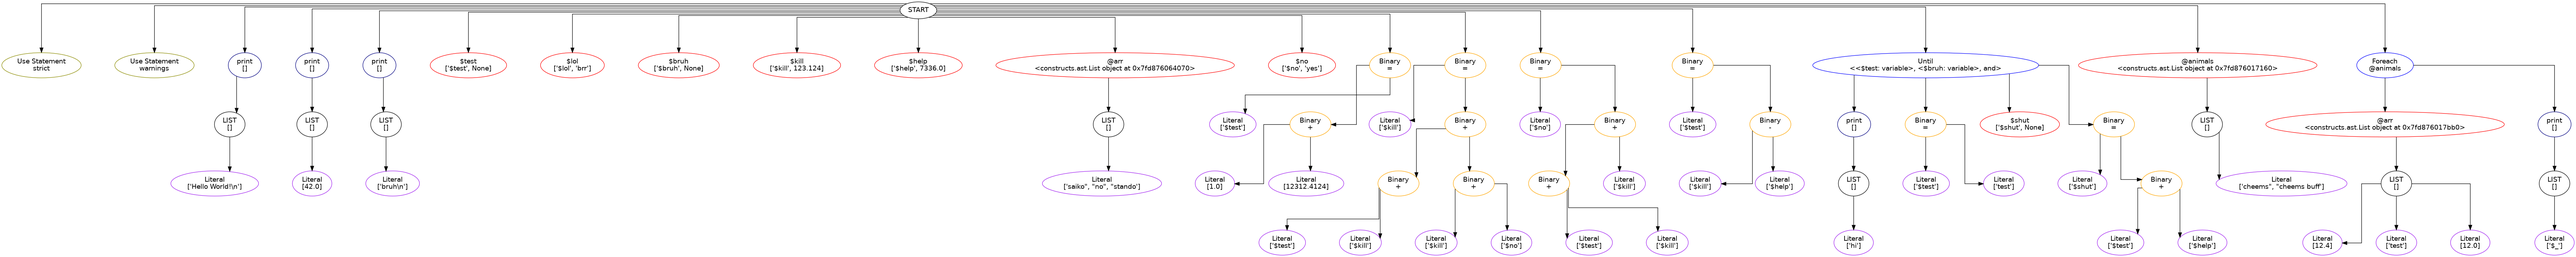
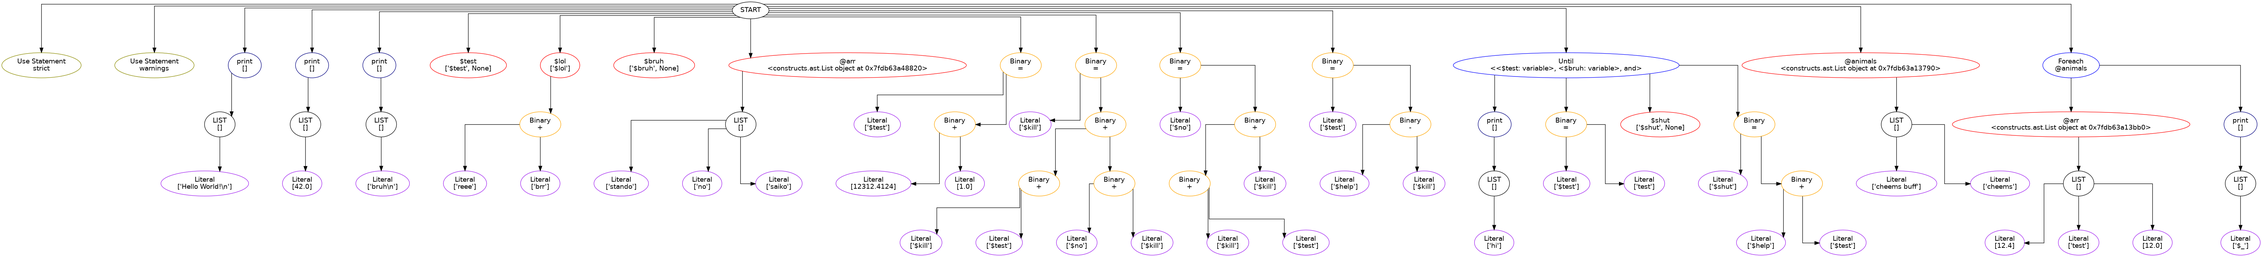
constant folding, string recognition, expr in var_decl

diff --git a/parser_yacc.py b/parser_yacc.py
@@ -44,8 +44,7 @@ def p_use(p):
 def p_var_decl(p: yacc.YaccProduction):
     """
     var_decl : MY VARNAME SEMI
-             | MY VARNAME EQ STRING SEMI
-             | MY VARNAME EQ NUMBER SEMI
+             | MY VARNAME EQ expr SEMI
     """
     if (len(p) == 4):
         symtab.add_if_not_exists(p[2][0])
@@ -53,8 +52,8 @@ def p_var_decl(p: yacc.YaccProduction):
         cprint("variable declaration", p.lineno(1), p.lineno(3))
     elif (len(p) == 6):
         symtab.add_if_not_exists(p[2][0])
-        symtab.get_symbol(p[2][0]).value = p[4][0]
-        p[0] = Decleration(p[2][0], p[4][0])
+        symtab.get_symbol(p[2][0]).value = p[4]
+        p[0] = Decleration(p[2][0], p[4])
         cprint("variable declaration", p.lineno(1), p.lineno(5))
     symtab.get_symbol(p[2][0]).lineno = p.lineno(2)
 
@@ -83,10 +82,11 @@ def p_identifier_types(p):
                     | NUMBER
                     | STRING
     """
-    symbol = symtab.get_symbol(p[1][0])
+    print("identifier_types")
     if (len(p) == 2):
         cprint("Identifier", p.lineno(1), p.lineno(1))
         if (p[1][1] == "VARNAME"):
+            symbol = symtab.get_symbol(p[1][0])
             if (symbol is None):
                 print("ERROR AT", p.lineno(1))
                 print("Variable accessed before declaration")
@@ -94,10 +94,13 @@ def p_identifier_types(p):
                 print(symbol)
             p[0] = Literal("variable", p[1][0])
         elif(p[1][1] == "NUMBER"):
+            cprint("Number", p.lineno(1), p.lineno(1))
             p[0] = Literal("number", p[1][0])
         else:
+            cprint("String", p.lineno(1), p.lineno(1))
             p[0] = Literal("string", p[1][0])
     else:
+        symbol = symtab.get_symbol(p[1][0])
         if (symbol is None):
             print("ERROR AT", p.lineno(1))
             print("Array used before declaration.")
@@ -265,6 +268,7 @@ def p_expr(p):
          | expr_bin
          | empty
     """
+    print("expr_bin")
     if (len(p) == 2):
         p[0] = p[1]
     elif (len(p) == 4):
@@ -277,8 +281,9 @@ def p_expr_bin_op(p):
           | identifier_types DIV identifier_types
           | identifier_types MUL identifier_types
     """
+    print("expr_bin_op")
     cprint("binary operation", p.lineno(1), p.lineno(1))
-    p[0] = BinOP(p[2], left = p[1], right=p[3])
+    p[0] = BinOP(p[2], left = p[3], right=p[1])
 
 def p_empty(p):
     """

diff --git a/ico.py b/ico.py
@@ -37,6 +37,35 @@ def constant_folding(code_list: List[Quad], symtab: SymbolTable):
                 line.operator = '='
                 t = symtab.get_symbol(line.dest)
                 t.value = line.op1
+            elif line.op1.type == "string" and line.op2.type == "number":
+                if (line.operator == '+'):
+                    line.op1 = line.op1.value + line.op2.value
+                else:
+                    continue
+                line.op2 = None
+                line.operator = '='
+                t = symtab.get_symbol(line.dest)
+                t.value = line.op1
+            elif line.op1.type == "number" and line.op2.type == "string":
+                if (line.operator == '+'):
+                    line.op1 = line.op1.value + line.op2.value
+                else:
+                    continue
+                line.op2 = None
+                line.operator = '='
+                t = symtab.get_symbol(line.dest)
+                t.value = line.op1
+            elif line.op1.type == "string" and line.op2.type == "string":
+                if (line.operator == '+'):
+                    line.op1 = line.op1.value + line.op2.value
+                else:
+                    continue
+                line.op2 = None
+                line.operator = '='
+                t = symtab.get_symbol(line.dest)
+                t.value = line.op1
+            else:
+                continue
             print("{} = {} {} {}".format(line.dest, line.op1, line.operator, line.op2))
 
 

diff --git a/lexer_lex.py b/lexer_lex.py
@@ -2,7 +2,6 @@ from ply.ply import lex
 
 # list of reserved tokens
 reserved = {
-    'if': 'IF',
     'and': 'AND',
     'not': 'NOT',
     'or': 'OR',
@@ -65,10 +64,12 @@ t_COMMA = r'\,'
 # regex rules + other actions
 
 def t_STRING(t):
-    r'\".*\"'
+    # r'\".*\"'
+    r'\"[^\"]*\"'
     val = t.value.strip("\"")
     t.value = (val, "STRING")
     return t
+
 def t_NUMBER(t):
     r'\d+(\.\d+)?'
     t.value = (float(t.value), "NUMBER")
